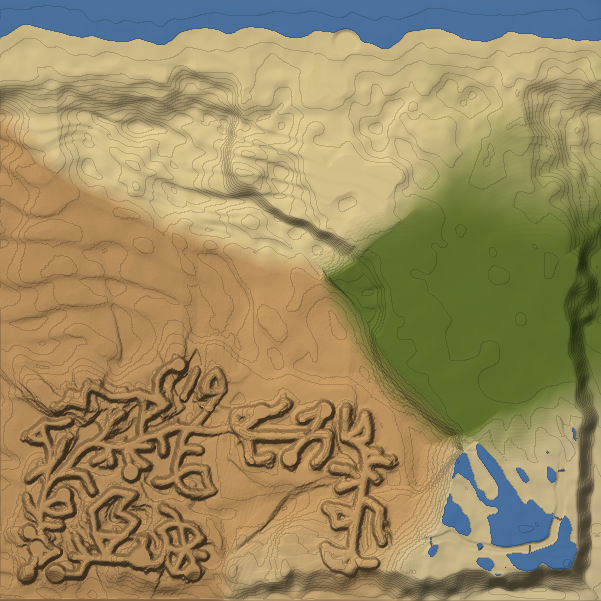
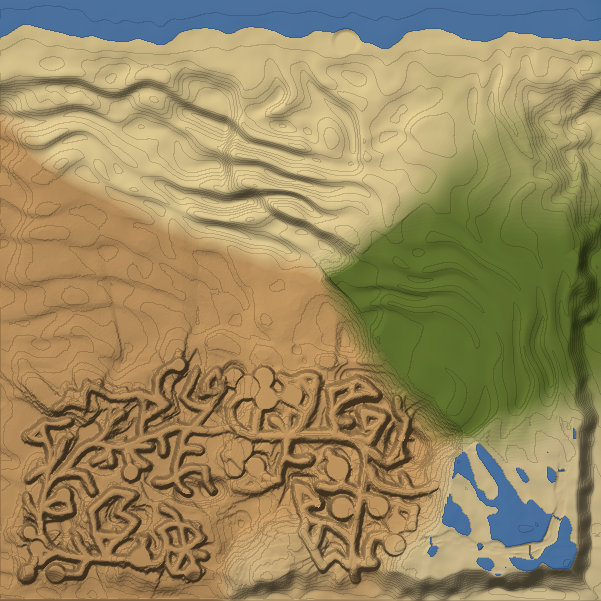
feat(tools): cañón desordenado como la salida, dunas de playa y túneles con roca
- Cañón: laberinto de 3 niveles que se extiende 70 m a los lados (antes
  40), acantilados de 7 a 19 m según la zona, pendiente que va de pared
  casi vertical a ladera de 55 grados por tramos, y plazas llanas grandes
  (8-12 m) para puzles.
- Túneles: candidatos de al menos 18 m; una loma de roca de 7 m se levanta
  sobre cada uno y solo quedan los que tienen roca encima en su tramo
  central (si no, su arista vuelve a ser pasillo y se recalcula el
  relieve). 5 túneles: 2 en los acantilados y 3 en el cañón.
- Bosque y playa: dunas de playa (crestas redondeadas, caras de avalancha
  tendidas, relieve de casi llano a 7 m según la zona).
- Muro exterior con máximo suave: sin el pliegue que se veía donde el
  bosque llega a su límite.
- Sendero del agua: más estrecho y rugoso (montoncitos) y trenzado con un
  segundo sendero que se separa y vuelve a juntarse.
- Pasada de picos sueltos en todo el mapa (mezclas entre zonas).
- El alcance nuevo del cañón no toca ZONES: la semilla aprobada sigue.

diff --git a/Scripts/terrain_vol/density.py b/Scripts/terrain_vol/density.py
@@ -35,9 +35,15 @@ MARSH_JUMP_EVERY_M = 48.0               # cada cuanto un charco estrecho corta e
 MARSH_WIGGLE_M = 7.0                    # cuanto se aparta el sendero de la ruta a los lados
 TUNNEL_HALF_WIDTH_M = 3.6              # semiancho de la seccion del tunel del laberinto
 TUNNEL_HEIGHT_M = 5.0
+TUNNEL_MIN_COVER_M = TUNNEL_HEIGHT_M + 0.8   # roca minima sobre el suelo del tunel (tramo central)
 TUNNEL_LENGTH_M = (26.0, 36.0)         # (solo lo usa el plan antiguo, que se conserva por la semilla)
-TUNNEL_EDGE_M = (14.0, 42.0)           # longitud de las aristas del laberinto que se hacen tunel
+TUNNEL_EDGE_M = (18.0, 45.0)           # longitud de las aristas del laberinto que se hacen tunel
 TUNNELS_PER_ZONE = {"cliffs": 2, "canyon": 3}
+TUNNEL_CANDIDATES = {"cliffs": (4, 8), "canyon": (4, 8)}   # (en la cadena, fuera) antes de validar
+TUNNEL_HILL_M = 7.0                      # loma de roca que se levanta sobre cada tunel
+
+CANYON_REACH_M = 70.0                  # el laberinto del canon se extiende a los lados como el de la salida
+CANYON_REACH_BASE_M = 40.0             # alcance de ZONES para el canon (no se toca: mueve la semilla)
 OUTER_WALL_M = 15.0
 EDGE_WALL_M = 20.0
 TOP_LIMIT_M = Z_MAX_M - 2.0
@@ -124,34 +130,82 @@ class MapModel:
         self.marsh_warp = (Fbm2D(extra, 26.0, 2), Fbm2D(extra, 26.0, 2))
         # Canon como laberinto de acantilados (enrevesado, como el de la salida) y tuneles como
         # tramos del laberinto excavados en la roca, en los acantilados y en el canon.
-        self.nets["canyon_maze"] = build_network(extra, self.zones, "canyon", 18.0, 0.15, level_step=CLIFF_LEVEL_M,
-                                                 level_count=2, decoys=True, reach_share=0.8)
+        self.nets["canyon_maze"] = build_network(extra, self.zones, "canyon", 16.0, 0.2, level_step=CLIFF_LEVEL_M,
+                                                 level_count=3, decoys=True, reach_share=0.85,
+                                                 reach_m=CANYON_REACH_M)
         self.maze_tunnels = self._pick_maze_tunnels(extra)
-        for zone in ("cliffs", "canyon_maze"):
-            closed = {e for z, e, _ in self.maze_tunnels if z == zone}
-            self.net_samples[zone] = self.nets[zone].sample(exclude=closed)
-            self.net_trees[zone] = cKDTree(self.net_samples[zone][0])
-        self.clearings["canyon_maze"] = self._pick_clearings(extra, self.nets["canyon_maze"])
+        self._close_tunnel_edges()
+        # Plazas llanas grandes en el canon (puzles).
+        self.clearings["canyon_maze"] = self._pick_clearings(extra, self.nets["canyon_maze"], every=5,
+                                                             radius=(8.0, 12.0))
         self._build_tunnel_samples()
+        self.marsh_warp_2 = (Fbm2D(extra, 40.0, 2), Fbm2D(extra, 40.0, 2))
+        self.n_hummock = Fbm2D(extra, 6.0, 2)
+        self.n_steep = Fbm2D(extra, 30.0, 2)
+        self.n_beach_amp = Fbm2D(extra, 110.0, 2)
+        self.n_cliff_height = Fbm2D(extra, 55.0, 3)
 
         # Campos 2D del mapa entero, con una muestra de margen alrededor.
         count = int(round((MAP_MAX_M - MAP_MIN_M) / STEP_XY_M)) + 1
         self.axis = MAP_MIN_M + STEP_XY_M * np.arange(-GRID_PAD, count + GRID_PAD)
         X, Y = np.meshgrid(self.axis, self.axis, indexing="ij")
         self.grid = self._fields(X, Y)
+        # Solo quedan los tuneles con roca de verdad encima; si alguno cae bajo otro pasillo o
+        # una plaza (o con poco techo), su arista vuelve a ser pasillo abierto y se recalcula.
+        kept = self._covered_tunnels()
+        if kept != self.maze_tunnels:
+            self.maze_tunnels = kept
+            self._close_tunnel_edges()
+            self._build_tunnel_samples()
+            self.grid = self._fields(X, Y)
         if erode:
             self.grid.height = self._erode(self.grid, np.random.default_rng(seed + 1))
 
     # ── Planificacion ────────────────────────────────────────────────────────────
     @staticmethod
-    def _pick_clearings(rng: np.random.Generator, net: Network) -> np.ndarray:
-        """Claros en algunos nodos (x, y, radio, cota): plazas para puzles y respiro."""
+    def _pick_clearings(rng: np.random.Generator, net: Network, every: int = 8,
+                        radius: tuple[float, float] = (5.5, 8.5)) -> np.ndarray:
+        """Claros en algunos nodos (x, y, radio, cota): plazas llanas para puzles y respiro."""
         nodes = [k for k in range(len(net.nodes)) if k not in set(net.chain)]
-        count = max(1, len(nodes) // 8)
+        count = max(1, len(nodes) // every)
         picked = rng.choice(nodes, size=min(count, len(nodes)), replace=False) if nodes else []
         levels = net.levels if net.levels is not None else np.zeros(len(net.nodes))
-        return np.array([[net.nodes[k][0], net.nodes[k][1], rng.uniform(5.5, 8.5), levels[k]]
+        return np.array([[net.nodes[k][0], net.nodes[k][1], rng.uniform(*radius), levels[k]]
                          for k in picked]).reshape(-1, 4)
+
+    def _close_tunnel_edges(self) -> None:
+        """Las aristas de tunel no abren pasillo en el relieve (queda roca encima)."""
+        for zone in ("cliffs", "canyon_maze"):
+            closed = {e for z, e, _ in self.maze_tunnels if z == zone}
+            self.net_samples[zone] = self.nets[zone].sample(exclude=closed)
+            self.net_trees[zone] = cKDTree(self.net_samples[zone][0])
+
+    def _covered_tunnels(self) -> list[tuple[str, int, float]]:
+        """Tuneles con al menos TUNNEL_MIN_COVER_M de roca sobre su suelo en el tramo central,
+        TUNNELS_PER_ZONE por zona como mucho, primero los de la cadena (el camino bueno)."""
+        kept = []
+        for net_name, zone in (("cliffs", "cliffs"), ("canyon_maze", "canyon")):
+            net = self.nets[net_name]
+            chain = {tuple(sorted((net.chain[k], net.chain[k + 1]))) for k in range(len(net.chain) - 1)}
+            good = []
+            for name, edge, dip in self.maze_tunnels:
+                if name != net_name:
+                    continue
+                curve = net.curves[edge]
+                seg = np.linalg.norm(np.diff(curve, axis=0), axis=1)
+                arc = np.concatenate(([0.0], np.cumsum(seg)))
+                t = np.linspace(0.35, 0.65, 7)
+                x = np.interp(t * arc[-1], arc, curve[:, 0])
+                y = np.interp(t * arc[-1], arc, curve[:, 1])
+                i = np.clip(np.rint(x - self.axis[0]).astype(int), 0, len(self.axis) - 1)
+                j = np.clip(np.rint(y - self.axis[0]).astype(int), 0, len(self.axis) - 1)
+                base = net.edge_floor(edge, t) + dip * np.sin(np.pi * t)
+                cover = self.grid.height[i, j] - base
+                if float(cover.min()) >= TUNNEL_MIN_COVER_M:
+                    good.append((tuple(sorted(net.edges[edge])) in chain, (name, edge, dip)))
+            good.sort(key=lambda g: not g[0])
+            kept += [g[1] for g in good[:TUNNELS_PER_ZONE[zone]]]
+        return kept
 
     def _pick_maze_tunnels(self, rng: np.random.Generator) -> list[tuple[str, int, float]]:
         """Aristas del laberinto que se excavan como tunel: (red, arista, desnivel). En cada zona
@@ -167,7 +221,8 @@ class MapModel:
             others = [k for k in ok if tuple(sorted(net.edges[k])) not in chain_edges]
             rng.shuffle(on_chain)
             rng.shuffle(others)
-            chosen = on_chain[:1] + others[:TUNNELS_PER_ZONE[zone] - 1]
+            n_chain, n_other = TUNNEL_CANDIDATES[zone]
+            chosen = on_chain[:n_chain] + others[:n_other]
             used_nodes: set[int] = set()
             for k in chosen:
                 a, b = net.edges[k]
@@ -264,13 +319,22 @@ class MapModel:
             weight = np.maximum(weight, m)
         return weight, level
 
-    def _dune_set(self, X, Y, angle: float, wave: float):
+    def _dune_set(self, X, Y, angle: float, wave: float, rise: float = 0.72):
         along = X * math.cos(angle) + Y * math.sin(angle)
         across = -X * math.sin(angle) + Y * math.cos(angle)
         phase = (along + 0.9 * wave * self.n_dune_warp(X, Y) + 0.25 * across * self.n_dune_mix(X, Y)) / wave
         frac = phase - np.floor(phase)
-        profile = np.where(frac < 0.72, frac / 0.72, (1.0 - frac) / 0.28)
+        profile = np.where(frac < rise, frac / rise, (1.0 - frac) / (1.0 - rise))
         return smooth(0.0, 1.0, profile)
+
+    def _beach_dunes(self, X, Y, scale: float = 1.0):
+        """Dunas de playa que se pasean: crestas redondeadas, caras de avalancha tendidas
+        (~25 grados como mucho) y relieve que cambia por zonas (de casi llano a 7 m)."""
+        mix = smooth(0.35, 0.65, self.n_dune_mix.unit(X, Y))
+        field = self._dune_set(X, Y, self.dune_angle, 34.0, 0.62) * (1 - mix) \
+            + self._dune_set(X, Y, self.dune_angle_2, 46.0, 0.62) * mix
+        amp = scale * (1.2 + 5.8 * smooth(0.25, 0.85, self.n_beach_amp.unit(X, Y)))
+        return amp * field
 
     def _dunes(self, X, Y, amp, wave: float):
         """Dunas con cara de avalancha, mezcla de dos direcciones de viento y crestas que
@@ -311,6 +375,11 @@ class MapModel:
     def _fields(self, X, Y) -> Fields:
         d_route, s_route = self.zones.nearest(X, Y)
         w = self.zones.weights(X, Y, s_route, d_route)
+        if getattr(self, "tunnel_tree", None) is not None:
+            u_tunnel = self._tunnel_query(X, Y)[0]
+            tunnel_hill = TUNNEL_HILL_M * (1.0 - smooth(TUNNEL_HALF_WIDTH_M + 2.0, TUNNEL_HALF_WIDTH_M + 13.0, u_tunnel))
+        else:
+            tunnel_hill = np.zeros_like(X)
         small, mid, big = self.n_small(X, Y), self.n_mid(X, Y), self.n_big(X, Y)
         width = self.n_width.unit(X, Y)
         heights, floors, bands, axes = {}, {}, {}, {}
@@ -323,7 +392,7 @@ class MapModel:
         start_w = 1.0 - smooth(9.0, 13.0, np.hypot(X - start[0], Y - start[1]))
         hw = 3.2 + 1.3 * width + 0.9 * self.n_buttress(X, Y)
         f = (level * (1.0 - clear_w) + clear_level * clear_w) * (1.0 - start_w) + 0.3 * small
-        top = strata(level_soft * (1.0 - start_w) + 9.5 + 4.0 * self.n_mid.unit(X, Y) + 1.2 * small, 3.5)
+        top = strata(level_soft * (1.0 - start_w) + 9.5 + 4.0 * self.n_mid.unit(X, Y) + 1.2 * small, 3.5) + tunnel_hill
         d_eff = d * (1.0 - np.maximum(clear_w, start_w))
         heights["cliffs"], bands["cliffs"], axes["cliffs"] = self._rock_walls(X, Y, d_eff, hw, f, top)
         # Lejos de los pasillos el suelo de referencia es el nivel suavizado: el muro exterior
@@ -336,14 +405,16 @@ class MapModel:
         d, level = self._net("canyon_maze", X, Y)
         _, level_soft = self._net("canyon_maze", X, Y, smooth_m=10.0)
         clear_w, clear_level = self._clearing("canyon_maze", X, Y)
-        hw = 3.4 + 1.4 * width + 0.8 * self.n_buttress(X, Y)
+        hw = 3.2 + 1.4 * width + 0.9 * self.n_buttress(X, Y)
         f = (level * (1.0 - clear_w) + clear_level * clear_w) + 0.3 * small
-        raw_top = level_soft + 10.0 + 4.5 * self.n_mid.unit(X, Y) + 2.0 * big + 1.2 * small
-        top = 0.5 * raw_top + 0.5 * strata(raw_top, 3.0)
+        # Acantilados de altura muy distinta segun la zona (7-19 m) y cimas a repisas.
+        raw_top = level_soft + 7.0 + 12.0 * smooth(0.2, 0.9, self.n_cliff_height.unit(X, Y)) + 1.5 * big + 1.2 * small
+        top = 0.35 * raw_top + 0.65 * strata(raw_top, 3.0) + tunnel_hill
         d_eff = d * (1.0 - clear_w)
-        face_w = 1.6 + 1.2 * self.n_talus.unit(X, Y)
+        # Pendiente que cambia por tramos: de pared casi vertical (1 m) a ladera de 55 grados.
+        face_w = 1.0 + 3.2 * smooth(0.3, 0.8, self.n_steep.unit(X, Y))
         heights["canyon"], bands["canyon"], axes["canyon"] = self._rock_walls(
-            X, Y, d_eff, hw, f, top, face_width=face_w, rim=0.2)
+            X, Y, d_eff, hw, f, top, face_width=face_w, rim=0.1)
         near_corridor = 1.0 - smooth(hw + 1.0, hw + 9.0, d_eff)
         floors["canyon"] = f * near_corridor + level_soft * (1.0 - near_corridor)
 
@@ -357,12 +428,18 @@ class MapModel:
         wx = X + MARSH_WIGGLE_M * self.marsh_warp[0](X, Y)
         wy = Y + MARSH_WIGGLE_M * self.marsh_warp[1](X, Y)
         d_path, s_path = self.zones.nearest(wx, wy)
-        bar_w = 2.0 + 1.3 * self.n_width.unit(X, Y)
-        crest = 1.0 - smooth(bar_w, bar_w + 3.5, d_path + 0.8 * self.n_crest(X, Y))
+        bar_w = 1.6 + 2.2 * self.n_width.unit(X, Y)
+        crest = 1.0 - smooth(bar_w, bar_w + 3.5, d_path + 1.4 * self.n_crest(X, Y))
+        # Segundo sendero que se separa y se vuelve a juntar (trenzado): no hay una sola linea.
+        wx2 = X + 16.0 * self.marsh_warp_2[0](X, Y)
+        wy2 = Y + 16.0 * self.marsh_warp_2[1](X, Y)
+        d_path_2, _ = self.zones.nearest(wx2, wy2)
+        crest = np.maximum(crest, 0.85 * (1.0 - smooth(1.2, 4.0, d_path_2 + 1.4 * self.n_crest(Y, X))))
         channel_s = np.mod(s_path + 4.0 * self.n_crest(Y, X), MARSH_JUMP_EVERY_M) - MARSH_JUMP_EVERY_M / 2
         # El corte solo existe sobre el sendero: no es un rio que cruce toda la zona.
         gap = (1.0 - smooth(0.5, 1.0, np.abs(channel_s))) * smooth(0.85, 0.95, w["marsh"]) * smooth(0.3, 0.8, crest)
-        path_top = MARSH_PATH_TOP_M + 0.5 * self._dunes(X, Y, 1.2, 16.0) + 0.3 * small
+        path_top = MARSH_PATH_TOP_M + 0.5 * self._dunes(X, Y, 1.2, 16.0) + 0.3 * small \
+            + 0.35 * self.n_hummock(X, Y)                                  # montoncitos: suelo rugoso
         land = base * (1.0 - crest) + np.maximum(base, path_top) * crest
         heights["marsh"] = land * (1.0 - gap) + np.minimum(land, WATER_M - 0.6) * gap
         floors["marsh"] = np.full_like(X, MARSH_PATH_TOP_M)
@@ -372,7 +449,7 @@ class MapModel:
         # Algas: lomas y hondonadas, red densa de sendas; el laberinto lo hace la espesura.
         d, _ = self._net("algae", X, Y)
         hw = 1.8 + 0.8 * width
-        f = 1.0 + 3.5 * self.n_big.unit(X, Y) + 2.4 * mid
+        f = 0.8 + 2.0 * self.n_big.unit(X, Y) + 0.8 * self._beach_dunes(X, Y)
         heights["algae"], floors["algae"] = f, f
         bands["algae"] = np.zeros_like(X)
         axes["algae"] = 1.0 - smooth(0.5 * hw, hw, d)
@@ -380,7 +457,7 @@ class MapModel:
 
         # Playa final: arena que baja hasta el mar por el borde norte del mapa.
         u = MAP_MAX_M - X + 18.0 * self.n_edge(X, Y)
-        hills = 9.0 * np.clip(self.n_beach_hills(X, Y) + 0.35, 0.0, None) + 0.8 * self._dunes(X, Y, 1.6, 20.0)
+        hills = 3.0 * np.clip(self.n_beach_hills(X, Y) + 0.35, 0.0, None) + self._beach_dunes(X, Y, 1.1)
         beach = WATER_M - 2.5 + 5.0 * smooth(4.0, 70.0, u) + hills * smooth(40.0, 95.0, u)
         heights["beach"], floors["beach"] = beach, beach
         bands["beach"] = np.zeros_like(X)
@@ -394,11 +471,13 @@ class MapModel:
 
         # Muro exterior (fuera del alcance de cada zona), con relieve: el mismo en todas las
         # zonas, asi que no marca la frontera entre ellas.
-        reach = self.zones.reach(w, X, Y)
+        reach = self.zones.reach(w, X, Y) + w["canyon"] * (CANYON_REACH_M - CANYON_REACH_BASE_M) \
+            * (0.65 + 0.7 * self.zones.reach_noise.unit(X, Y))
         outer = smooth(reach, reach + 22.0, d_route)
         relief = 4.0 * mid + 3.0 * big + self._dunes(X, Y, 2.5, 34.0)
-        rock = np.maximum(height, floor + OUTER_WALL_M + relief)
-        dune_wall = np.maximum(height, 8.0 + relief)
+        # Maximo suave: el muro sale del terreno sin arista (antes, un pliegue visible).
+        rock = soft_max(height, floor + OUTER_WALL_M + relief, 3.0)
+        dune_wall = soft_max(height, 6.0 + relief + self._beach_dunes(X, Y, 0.8), 5.0)
         soft = w["marsh"] + w["algae"]
         wall = rock * (1.0 - soft) + dune_wall * soft
         height = height * (1 - outer) + wall * outer
@@ -440,7 +519,9 @@ class MapModel:
         # (derrubios) pero no los tapa.
         keep = np.maximum(f.path, 1.0 - erodible)
         h = h * (1.0 - keep) + h0 * keep
-        return despike(h, rocky)
+        h = despike(h, rocky)
+        # Pasada ligera en todo el mapa: picos sueltos que dejan las mezclas entre zonas.
+        return despike(h, np.ones_like(h), limit=2.0, passes=2, blur=0.0)
 
     # ── Acceso por trozo ─────────────────────────────────────────────────────────
     def chunk_fields(self, col: int, row: int, pad: int = 0) -> tuple[Fields, np.ndarray, np.ndarray]:
@@ -487,6 +568,11 @@ class MapModel:
         # Fuera del tramo (mas alla de la prolongacion de las bocas) no se excava.
         active = (t > -0.2) & (t < 1.2)
         return np.where(active[..., None], inside, -1.0)
+
+
+def soft_max(a, b, k: float):
+    """Maximo suave de a y b (transicion de anchura ~k): sin arista donde se cruzan."""
+    return 0.5 * (a + b + np.sqrt((a - b) ** 2 + k * k)) - 0.5 * k
 
 
 def end_direction(curve: np.ndarray, reach: float = 2.0) -> np.ndarray:
@@ -557,7 +643,7 @@ def hydraulic_erosion(h: np.ndarray, erodible: np.ndarray, rng: np.random.Genera
     return h
 
 
-def despike(h: np.ndarray, where: np.ndarray, limit: float = 1.2, passes: int = 3) -> np.ndarray:
+def despike(h: np.ndarray, where: np.ndarray, limit: float = 1.2, passes: int = 3, blur: float = 0.6) -> np.ndarray:
     """Quita picos y pozos de una celda (aletas finas en la malla): donde la celda se aparta
     de la mediana de sus vecinas mas de limit metros, toma la mediana. Luego un desenfoque
     leve solo en la roca."""
@@ -566,7 +652,9 @@ def despike(h: np.ndarray, where: np.ndarray, limit: float = 1.2, passes: int = 
         med = ndimage.median_filter(h, size=3)
         spike = (np.abs(h - med) > limit) & (where > 0.05)
         h = np.where(spike, med, h)
-    soft = ndimage.gaussian_filter(h, 0.6)
+    if blur <= 0.0:
+        return h
+    soft = ndimage.gaussian_filter(h, blur)
     w = np.clip(where, 0.0, 1.0) * 0.6
     return h * (1.0 - w) + soft * w
 

diff --git a/Scripts/terrain_vol/network.py b/Scripts/terrain_vol/network.py
@@ -137,7 +137,7 @@ def bent_curve(rng: np.random.Generator, a: np.ndarray, b: np.ndarray, bend: flo
 def build_network(rng: np.random.Generator, zones: ZoneField, zone: str, spacing: float,
                   loop_share: float, loops_anywhere: bool = False, reach_share: float = 0.85,
                   bend: float = 0.22, level_step: float = 0.0, level_count: int = 1,
-                  decoys: bool = False) -> Network:
+                  decoys: bool = False, reach_m: float | None = None) -> Network:
     """Red de la zona. loops_anywhere=False: los lazos no saltan de una rama a otra, asi que la
     cadena es el unico paso de la entrada a la salida de la zona.
 
@@ -146,7 +146,8 @@ def build_network(rng: np.random.Generator, zones: ZoneField, zone: str, spacing
     salida de la zona a nivel 0 para casar con las vecinas.
     decoys: donde la cadena gira mas de 15 grados, una rama sigue recto (el camino recto no es el bueno)."""
     route = zones.route
-    reach = next(r for name, _, r in ZONES if name == zone) * reach_share
+    zone_reach = reach_m if reach_m is not None else next(r for name, _, r in ZONES if name == zone)
+    reach = zone_reach * reach_share
     s0, s1 = route.zone_range(zone)
     chain_s = np.arange(max(0.0, s0 - spacing * 0.5), min(route.length, s1 + spacing * 0.5), spacing)
     chain_s = np.append(chain_s, min(route.length, s1 + spacing * 0.5))
@@ -161,7 +162,11 @@ def build_network(rng: np.random.Generator, zones: ZoneField, zone: str, spacing
         d, s = zones.nearest(np.array([p[0]]), np.array([p[1]]))
         x, y = np.array([p[0]]), np.array([p[1]])
         w = zones.weights(x, y, s, d)[zone][0]
-        return w > 0.55 and d[0] < min(reach, 0.9 * zones.reach(zones.weights(x, y, s, d), x, y)[0])
+        if reach_m is not None:
+            limit = 0.9 * reach_m * (0.65 + 0.7 * zones.reach_noise.unit(x, y)[0])
+        else:
+            limit = 0.9 * zones.reach(zones.weights(x, y, s, d), x, y)[0]
+        return w > 0.55 and d[0] < min(reach, limit)
 
     extra = poisson_disk(rng, bounds, spacing, accept, chain_pts)
     chain = list(range(len(chain_pts)))

diff --git a/Scripts/tests/test_terrain_volume.py b/Scripts/tests/test_terrain_volume.py
@@ -175,14 +175,11 @@ def test_sin_picos_de_una_celda_en_la_roca(model):
     assert int((spike > 4.0).sum()) == 0
 
 
-def test_los_tuneles_bajan_o_suben_por_dentro_y_el_camino_pasa_por_uno(model):
+def test_los_tuneles_bajan_o_suben_por_dentro_y_son_parte_del_laberinto(model):
     assert all(1.0 <= abs(dip) <= 3.5 for _, _, dip in model.maze_tunnels)
     assert any(dip < 0 for _, _, dip in model.maze_tunnels), "ninguno baja por debajo"
     for zone in ("cliffs", "canyon_maze"):
-        net = model.nets[zone]
-        chain = {tuple(sorted((net.chain[k], net.chain[k + 1]))) for k in range(len(net.chain) - 1)}
-        assert any(tuple(sorted(net.edges[e])) in chain for z, e, _ in model.maze_tunnels if z == zone), \
-            f"el camino bueno no pasa por un tunel en {zone}"
+        assert any(z == zone for z, _, _ in model.maze_tunnels), f"sin tuneles en {zone}"
 
 
 def test_la_semilla_aprobada_da_el_mismo_mapa(model):
